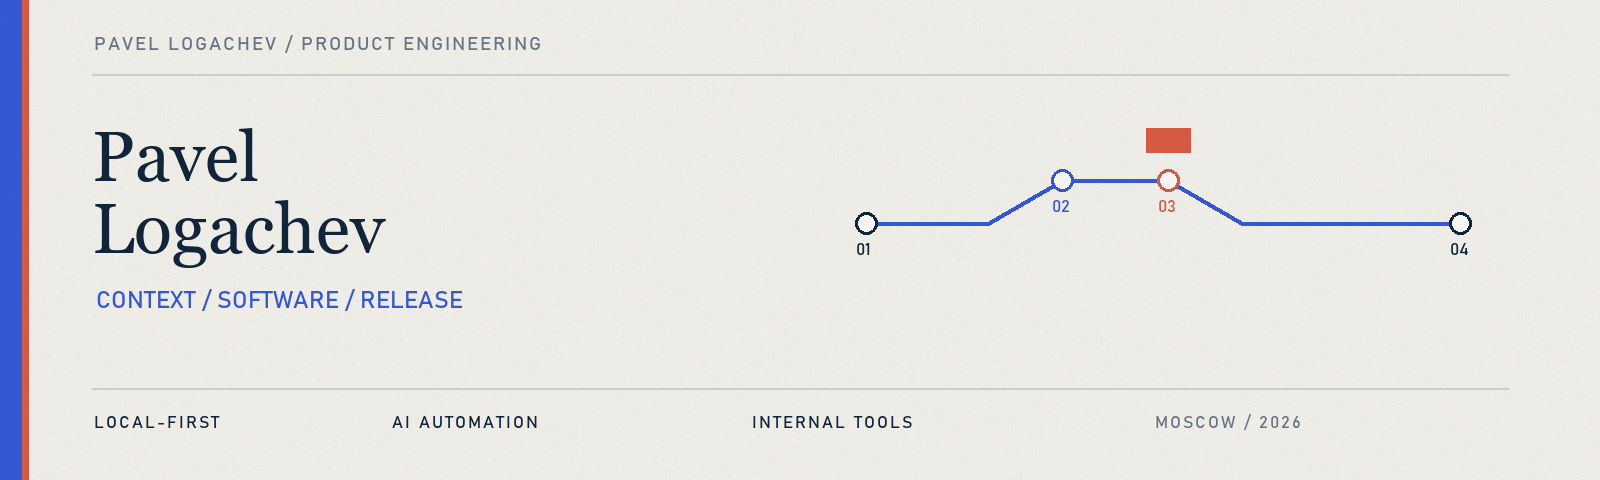
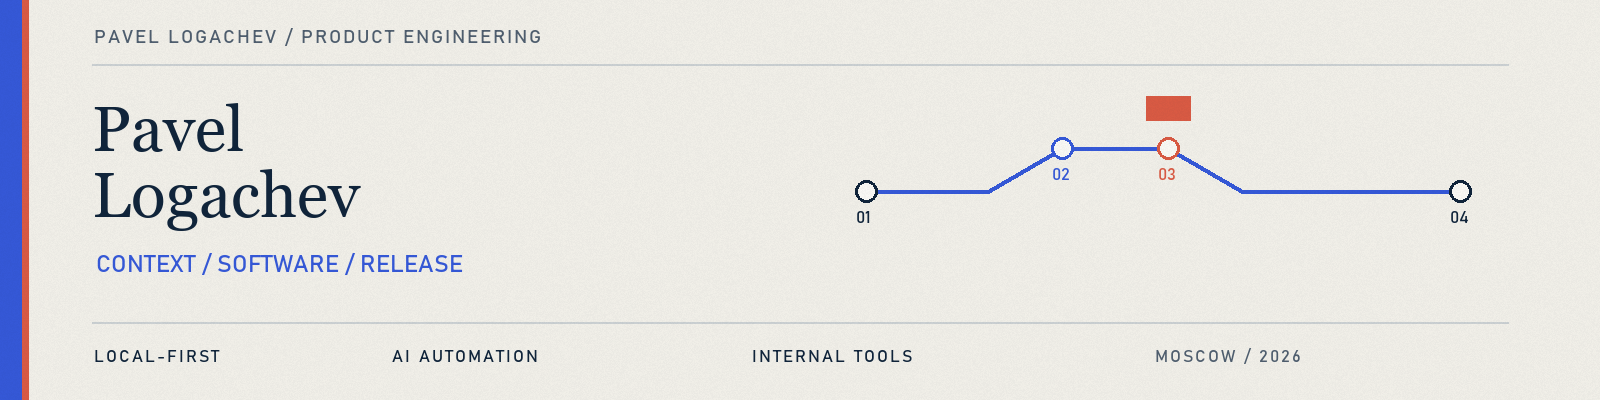
refine profile hierarchy

diff --git a/scripts/render_assets.py b/scripts/render_assets.py
@@ -13,7 +13,7 @@ INK = "#10243A"
 PAPER = "#F1EFE8"
 COBALT = "#3558D7"
 RED = "#D95A43"
-MUTED = "#677586"
+MUTED = "#4F5E6E"
 HAIR = "#CBD0D2"
 WHITE = "#F9F8F4"
 
@@ -81,25 +81,25 @@ def route_graph(draw: ImageDraw.ImageDraw, box: tuple[int, int, int, int], scale
 
 
 def render_banner() -> None:
-    size = (1600, 480)
+    size = (1600, 400)
     im = Image.new("RGB", size, PAPER)
     draw = ImageDraw.Draw(im)
 
     draw.rectangle((0, 0, 22, size[1]), fill=COBALT)
     draw.rectangle((22, 0, 28, size[1]), fill=RED)
-    draw.line((92, 74, 1508, 74), fill=HAIR, width=2)
-    draw.line((92, 388, 1508, 388), fill=HAIR, width=2)
+    draw.line((92, 64, 1508, 64), fill=HAIR, width=2)
+    draw.line((92, 322, 1508, 322), fill=HAIR, width=2)
 
-    tracking(draw, (94, 34), "PAVEL LOGACHEV / PRODUCT ENGINEERING", font(SANS, 19), MUTED, 2)
-    draw.text((92, 116), "Pavel", font=font(SERIF, 70), fill=INK)
-    draw.text((92, 188), "Logachev", font=font(SERIF, 70), fill=INK)
-    draw.text((96, 288), "CONTEXT / SOFTWARE / RELEASE", font=font(SANS, 24), fill=COBALT)
+    tracking(draw, (94, 27), "PAVEL LOGACHEV / PRODUCT ENGINEERING", font(SANS, 19), MUTED, 2)
+    draw.text((92, 92), "Pavel", font=font(SERIF, 64), fill=INK)
+    draw.text((92, 158), "Logachev", font=font(SERIF, 64), fill=INK)
+    draw.text((96, 252), "CONTEXT / SOFTWARE / RELEASE", font=font(SANS, 24), fill=COBALT)
 
-    route_graph(draw, (866, 128, 1460, 318), 1.0)
-    tracking(draw, (94, 414), "LOCAL-FIRST", font(SANS, 17), INK, 2)
-    tracking(draw, (392, 414), "AI AUTOMATION", font(SANS, 17), INK, 2)
-    tracking(draw, (752, 414), "INTERNAL TOOLS", font(SANS, 17), INK, 2)
-    tracking(draw, (1155, 414), "MOSCOW / 2026", font(SANS, 17), MUTED, 2)
+    route_graph(draw, (866, 96, 1460, 286), 1.0)
+    tracking(draw, (94, 348), "LOCAL-FIRST", font(SANS, 17), INK, 2)
+    tracking(draw, (392, 348), "AI AUTOMATION", font(SANS, 17), INK, 2)
+    tracking(draw, (752, 348), "INTERNAL TOOLS", font(SANS, 17), INK, 2)
+    tracking(draw, (1155, 348), "MOSCOW / 2026", font(SANS, 17), MUTED, 2)
 
     im = Image.alpha_composite(im.convert("RGBA"), noise_layer(size)).convert("RGB")
     im.save(OUT / "profile-banner.png", optimize=True, quality=94)

diff --git a/README.md b/README.md
@@ -12,11 +12,7 @@
   <a href="https://github.com/pavel-logachev/portable-agent-os">Portable Agent OS</a>
 </p>
 
-## Product engineering from context to release
-
-I design and build digital products that connect business context, software and operations. My background is B2B IT and systems integration; my product work spans local-first desktop applications, mobile utilities, internal tools and practical AI automation.
-
-I keep the first version bounded, make critical decisions visible to a person, and treat testing, deployment and documentation as part of the product rather than post-release chores.
+## Selected work
 
 <table>
   <tr>
@@ -34,6 +30,10 @@ I keep the first version bounded, make critical decisions visible to a person, a
     </td>
   </tr>
 </table>
+
+## Product engineering from context to release
+
+I connect business context, software and operations. My background is B2B IT and systems integration; my product work spans local-first applications, internal tools and practical AI automation. I keep the first version bounded and treat testing, deployment and documentation as part of the product.
 
 ## What I build
 
